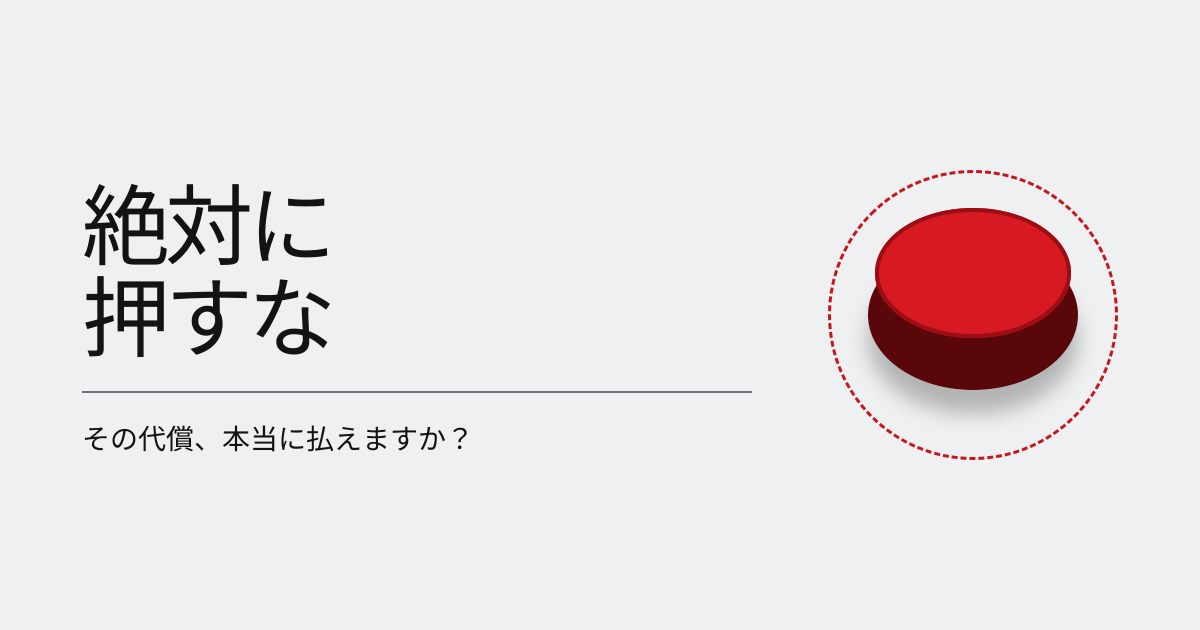
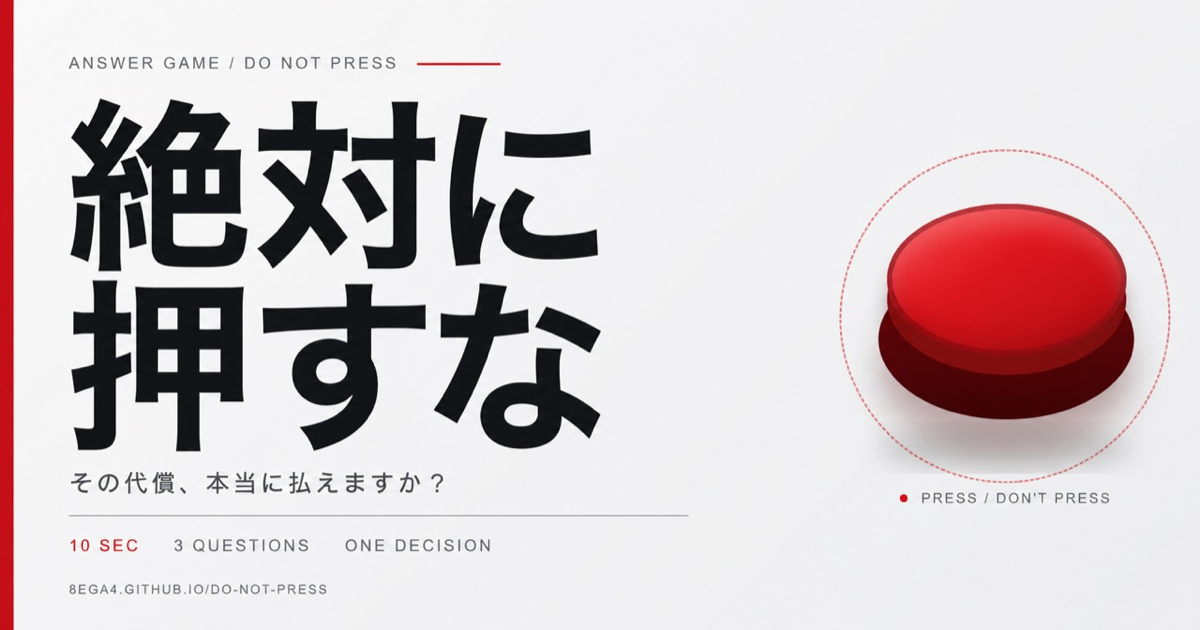
Polish OGP and sharing UI

diff --git a/src/components/ShareButton.tsx b/src/components/ShareButton.tsx
@@ -10,10 +10,16 @@ function XIcon() {
   );
 }
 
-export function ShareButton({ text, url, variant = "secondary" }: XShareData & { variant?: "primary" | "secondary" }) {
+export function ShareButton({ text, url }: XShareData) {
   return (
-    <button type="button" className={`action-button action-button--${variant}`} onClick={() => openXShare({ text, url })}>
-      <XIcon /><span>Xで共有</span>
+    <button
+      type="button"
+      className="action-button action-button--x-share"
+      aria-label="Xで共有"
+      title="Xで共有"
+      onClick={() => openXShare({ text, url })}
+    >
+      <XIcon />
     </button>
   );
 }

diff --git a/src/app/globals.css b/src/app/globals.css
@@ -76,11 +76,15 @@ button:disabled { cursor: wait; opacity: 0.58; }
 .action-button:active { transform: translateY(2px); }
 .action-button svg { fill: none; stroke: currentColor; stroke-width: 1.7; stroke-linecap: round; stroke-linejoin: round; }
 .action-button .x-share-icon { fill: currentColor; stroke: none; }
+.action-button--x-share { min-height: 62px; border-color: #383b3f; background: rgba(255,255,255,.72); color: #111214; box-shadow: 0 3px 0 #777b7f, 0 7px 14px rgba(20,22,24,.1); }
+.action-button--x-share:hover { background: #fff; }
+.action-button--x-share .x-share-icon { width: 25px; height: 25px; }
 .action-button--primary { border-color: #ad1017; background: linear-gradient(180deg, #df1b24, #bd1018); color: white; box-shadow: 0 5px 0 #850b11, 0 8px 16px rgba(101,4,8,.18); }
 .action-button--secondary:hover { background: white; }
 .action-button--start { min-height: 72px; font-size: 21px; box-shadow: 0 5px 0 #850b11, 0 9px 18px rgba(101,4,8,.2); }
-.total-counter { width: 100%; min-height: 65px; display: flex; align-items: baseline; justify-content: center; gap: 9px; margin-top: 22px; border: 1px solid var(--line); background: rgba(255,255,255,.28); font-size: 13px; }
-.total-counter strong { color: var(--red); font: 700 31px/1 var(--font-mono); letter-spacing: .02em; }
+.total-counter { width: 100%; min-height: 65px; display: flex; align-items: center; justify-content: center; gap: 9px; margin-top: 22px; border: 1px solid var(--line); background: rgba(255,255,255,.28); font-size: 13px; line-height: 1; }
+.total-counter span { line-height: 1; }
+.total-counter strong { display: inline-flex; align-items: center; color: var(--red); font: 700 31px/1 var(--font-mono); letter-spacing: .02em; }
 .fiction-note { margin: auto 0 0; color: var(--muted); font-size: 12px; letter-spacing: .05em; }
 .fiction-note span { margin-right: 7px; }
 

diff --git a/src/app/q/[id]/page.tsx b/src/app/q/[id]/page.tsx
@@ -23,7 +23,7 @@ export async function generateMetadata({ params }: Props): Promise<Metadata> {
     openGraph: {
       title,
       description: "あなたは押す？『絶対に押すな』",
-      images: [{ url: ogImageUrl, width: 1200, height: 630, alt: "絶対に押すな" }],
+      images: [{ url: ogImageUrl, width: 1200, height: 630, alt: `${title}｜絶対に押すな` }],
     },
     twitter: {
       card: "summary_large_image",

diff --git a/README.md b/README.md
@@ -107,7 +107,7 @@ Supabase環境変数が両方そろっていない場合は、自動的にロー
 - 問題結果と最終結果の「Xで共有」からXの投稿画面を新しいタブで開く
 - 投稿本文と共有URLは `URLSearchParams` でエンコード
 - 問題結果は現在の問題文と問題直リンク、最終結果は3問の結果とトップページURLを共有
-- 共通OG画像と問題ごとのタイトル・説明を設定
+- `public/og-image.png` の1200×630画像を全ページのOGPに設定
 - `robots.ts`、`sitemap.ts`、日本語lang、viewport、theme-colorを設定
 
 ## GitHub Pagesへのデプロイ